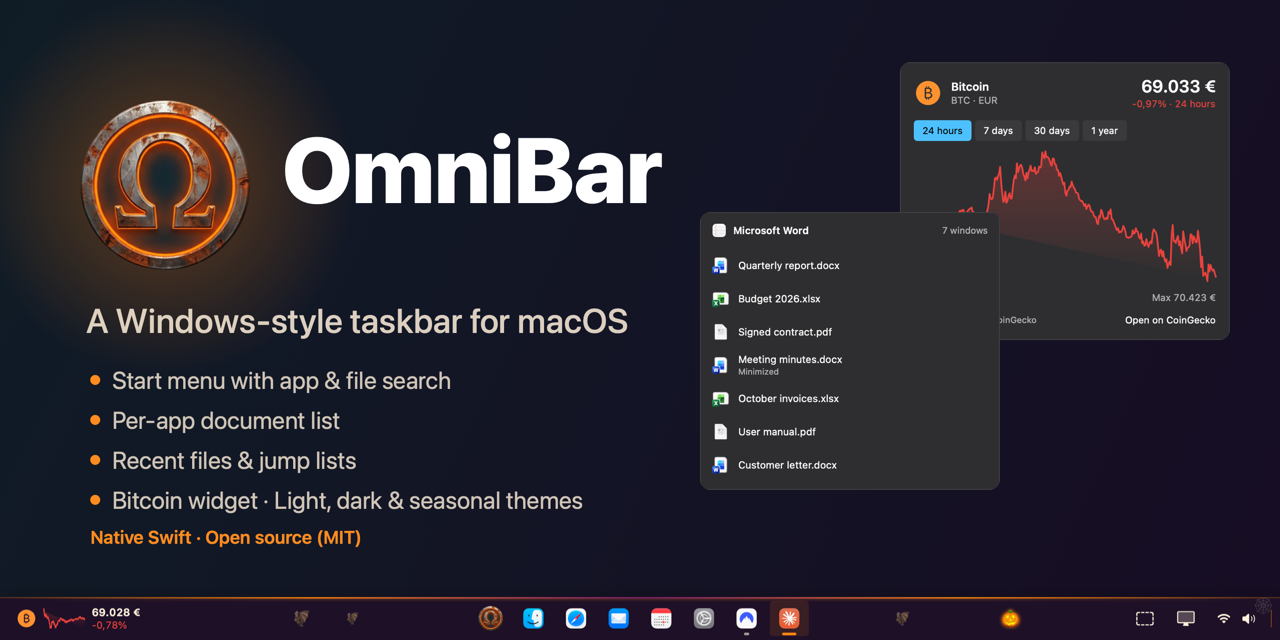
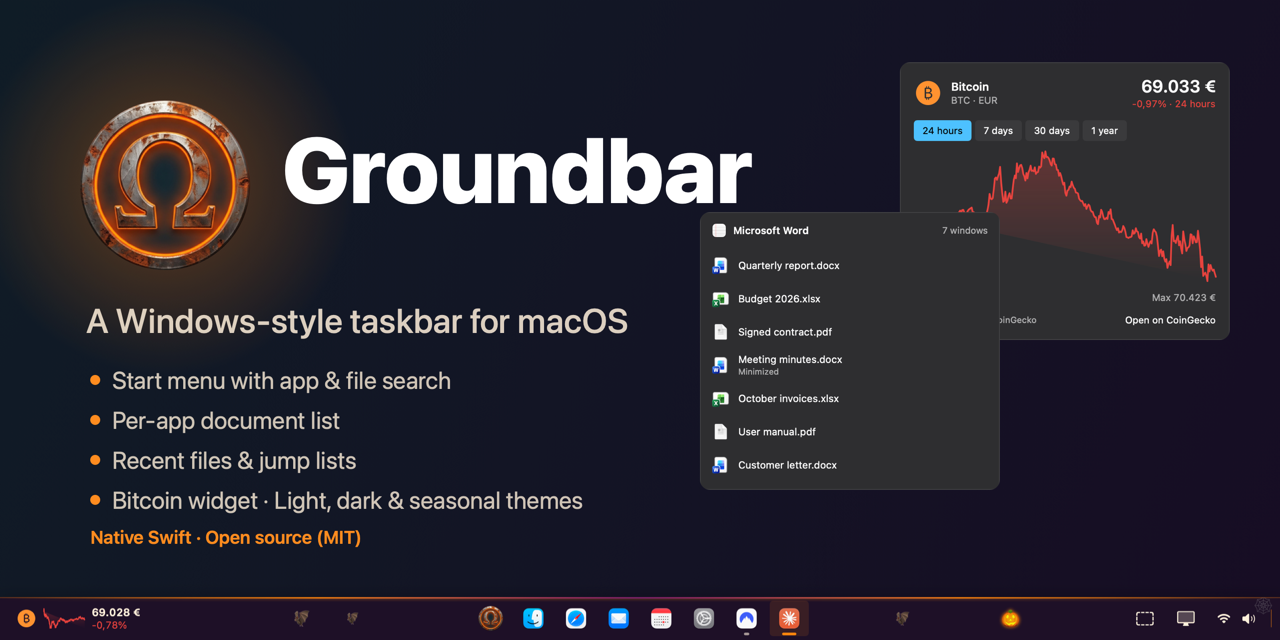
Rename OmniBar to Groundbar (version 0.3.0)
"OmniBar" is already used by other products (including a registered
trademark for lighting equipment), so the app is now called Groundbar.

- Sources/Groundbar, executable, bundle (app.groundbar.Groundbar), log
  file, environment variables (GROUNDBAR_*), UI strings in both
  languages, READMEs and scripts.
- The update check points to github.com/umb-maker/Groundbar.
- Regenerated demo GIF and social preview; READMEs note the former name.
- Version 0.3.0.

Changed region(s): [[0.25, 0.1875, 0.5938, 0.3438]]

diff --git a/Sources/Groundbar/Welcome.swift b/Sources/Groundbar/Welcome.swift
@@ -18,7 +18,7 @@ enum LoginItem {
     static var binding: Binding<Bool> { Binding(get: { isEnabled }, set: { set($0) }) }
 }
 
-/// Live state of the two privacy permissions OmniBar needs.
+/// Live state of the two privacy permissions Groundbar needs.
 @MainActor
 final class PermissionState: ObservableObject {
     @Published private(set) var accessibility = AXIsProcessTrusted()
@@ -39,14 +39,14 @@ final class PermissionState: ObservableObject {
         if screen != screenRecording { screenRecording = screen }
     }
 
-    /// Adds OmniBar to the Accessibility list (with the system prompt) and opens that pane.
+    /// Adds Groundbar to the Accessibility list (with the system prompt) and opens that pane.
     func requestAccessibility() {
         let opts = [kAXTrustedCheckOptionPrompt.takeUnretainedValue() as String: true] as CFDictionary
         _ = AXIsProcessTrustedWithOptions(opts)
         TaskbarController.openSettings("x-apple.systempreferences:com.apple.preference.security?Privacy_Accessibility")
     }
 
-    /// Adds OmniBar to the Screen Recording list (with the system prompt) and opens that pane.
+    /// Adds Groundbar to the Screen Recording list (with the system prompt) and opens that pane.
     func requestScreenRecording() {
         _ = CGRequestScreenCaptureAccess()
         TaskbarController.openSettings("x-apple.systempreferences:com.apple.preference.security?Privacy_ScreenCapture")
@@ -115,8 +115,8 @@ struct WelcomeView: View {
         VStack(spacing: 0) {
             VStack(spacing: 10) {
                 Image(nsImage: NSApp.applicationIconImage).resizable().frame(width: 84, height: 84)
-                Text("Welcome to OmniBar").font(.system(size: 24, weight: .bold))
-                Text("A Windows-style taskbar for your Mac. To list your windows and documents, OmniBar needs two macOS permissions.")
+                Text("Welcome to Groundbar").font(.system(size: 24, weight: .bold))
+                Text("A Windows-style taskbar for your Mac. To list your windows and documents, Groundbar needs two macOS permissions.")
                     .font(.system(size: 13)).foregroundStyle(f.secondary)
                     .multilineTextAlignment(.center).fixedSize(horizontal: false, vertical: true)
             }
@@ -130,7 +130,7 @@ struct WelcomeView: View {
                               detail: "Reads window titles and takes the screenshots you ask for.",
                               granted: permissions.screenRecording, action: permissions.requestScreenRecording)
                 if !permissions.screenRecording {
-                    Text("After allowing Screen Recording, macOS may ask you to quit and reopen OmniBar.")
+                    Text("After allowing Screen Recording, macOS may ask you to quit and reopen Groundbar.")
                         .font(.system(size: 11)).foregroundStyle(f.secondary)
                         .frame(maxWidth: .infinity, alignment: .leading).padding(.horizontal, 4)
                 }
@@ -152,7 +152,7 @@ struct WelcomeView: View {
 
             HStack(alignment: .center, spacing: 12) {
                 Image(systemName: "lock.shield").foregroundStyle(f.secondary)
-                Text("Nothing about you leaves your Mac: OmniBar only fetches the Bitcoin price from CoinGecko and checks GitHub for updates.")
+                Text("Nothing about you leaves your Mac: Groundbar only fetches the Bitcoin price from CoinGecko and checks GitHub for updates.")
                     .font(.system(size: 11)).foregroundStyle(f.secondary).fixedSize(horizontal: false, vertical: true)
                 Spacer()
                 Button(permissions.allGranted ? "Get Started" : "Later") { WelcomeWindow.close() }

diff --git a/Sources/Groundbar/Settings.swift b/Sources/Groundbar/Settings.swift
@@ -1,7 +1,7 @@
 import AppKit
 import SwiftUI
 
-/// OmniBar's settings window (bar menu › Settings…, or the gear in the Start menu).
+/// Groundbar's settings window (bar menu › Settings…, or the gear in the Start menu).
 @MainActor
 enum SettingsWindow {
     private(set) static var window: NSWindow?
@@ -16,7 +16,7 @@ enum SettingsWindow {
         let c = TaskbarController.shared
         let w = NSWindow(contentRect: NSRect(x: 0, y: 0, width: 500, height: 790),
                          styleMask: [.titled, .closable], backing: .buffered, defer: false)
-        w.title = L("OmniBar Settings")
+        w.title = L("Groundbar Settings")
         w.isReleasedWhenClosed = false
         w.appearance = c.model.theme.appearance
         let host = NSHostingView(rootView: SettingsView(model: c.model, ticker: c.crypto, updater: c.updater))
@@ -80,7 +80,7 @@ struct SettingsView: View {
 
             Section("About") {
                 LabeledContent("Source code") {
-                    Link("github.com/umb-maker/OmniBar", destination: URL(string: "https://github.com/umb-maker/OmniBar")!)
+                    Link("github.com/umb-maker/Groundbar", destination: URL(string: "https://github.com/umb-maker/Groundbar")!)
                 }
                 LabeledContent("License", value: "MIT")
                 LabeledContent("Permissions") {
@@ -107,12 +107,12 @@ struct SettingsView: View {
                 Text("Checking…").foregroundStyle(.secondary)
             }
         case .upToDate:
-            Label("OmniBar is up to date", systemImage: "checkmark.circle.fill").foregroundStyle(.green)
+            Label("Groundbar is up to date", systemImage: "checkmark.circle.fill").foregroundStyle(.green)
         case .available(let release):
             Button {
                 NSWorkspace.shared.open(release.url)
             } label: {
-                Label("Download OmniBar \(release.version)", systemImage: "arrow.down.circle.fill")
+                Label("Download Groundbar \(release.version)", systemImage: "arrow.down.circle.fill")
             }
             .buttonStyle(.link)
         case .failed:

diff --git a/Sources/Groundbar/Snapshot.swift b/Sources/Groundbar/Snapshot.swift
@@ -1,6 +1,6 @@
 import AppKit
 
-/// Debug aid: `OmniBar --snapshot <dir>` writes PNGs of the bar and flyouts, then quits.
+/// Debug aid: `Groundbar --snapshot <dir>` writes PNGs of the bar and flyouts, then quits.
 @MainActor
 enum Snapshot {
     static func run(to dir: String) {
@@ -15,8 +15,8 @@ enum Snapshot {
             ("settings", { WelcomeWindow.close(); c.updater.check(); SettingsWindow.show() }),
             ("preview", { c.closeFlyout(); c.showDemoPreview() }),
         ]
-        // OMNIBAR_SNAPSHOT_STEPS=bar,start limits the run to those steps.
-        let only = ProcessInfo.processInfo.environment["OMNIBAR_SNAPSHOT_STEPS"].map { Set($0.split(separator: ",").map(String.init)) }
+        // GROUNDBAR_SNAPSHOT_STEPS=bar,start limits the run to those steps.
+        let only = ProcessInfo.processInfo.environment["GROUNDBAR_SNAPSHOT_STEPS"].map { Set($0.split(separator: ",").map(String.init)) }
         let steps = only.map { o in allSteps.filter { o.contains($0.0) } } ?? allSteps
         func step(_ i: Int) {
             guard i < steps.count else { NSApp.terminate(nil); return }
@@ -65,9 +65,9 @@ extension TaskbarController {
     }
 }
 
-/// `OMNIBAR_DEMO=1`: sample apps and files instead of the user's own, for README screenshots and the demo GIF.
+/// `GROUNDBAR_DEMO=1`: sample apps and files instead of the user's own, for README screenshots and the demo GIF.
 enum Demo {
-    static let active = ProcessInfo.processInfo.environment["OMNIBAR_DEMO"] == "1"
+    static let active = ProcessInfo.processInfo.environment["GROUNDBAR_DEMO"] == "1"
     static let userName = "Alex Appleseed"
     static let pins = ["com.apple.finder", "com.apple.Safari", "com.apple.mail", "com.apple.iCal", "com.apple.Notes",
                        "com.apple.Music", "com.apple.Photos", "com.apple.systempreferences"]

diff --git a/scripts/demo-gif.swift b/scripts/demo-gif.swift
@@ -1,7 +1,7 @@
-// Builds the README demo GIF from OmniBar's own --snapshot renders (no screen recording involved).
+// Builds the README demo GIF from Groundbar's own --snapshot renders (no screen recording involved).
 // Usage: swift scripts/demo-gif.swift <input folder> <output.gif>
 //
-// The input folder holds @2x PNGs rendered with OMNIBAR_DEMO=1 (sample apps and files) in English:
+// The input folder holds @2x PNGs rendered with GROUNDBAR_DEMO=1 (sample apps and files) in English:
 //   bar-dark.png bar-halloween.png bar-christmas.png bar-santa.png (bar layer renders, sleigh-free for Santa)
 //   sleigh.png (the sleigh cropped from a Santa render), start.png preview.png btc.png quick.png
 import AppKit
@@ -105,7 +105,7 @@ func reveal(_ caption: String, _ image: NSImage, x: CGFloat, holdFor seconds: Do
     hold(frame(bar: "dark", caption: caption, panels: [Panel(image: image, x: x, progress: 1)]), seconds)
 }
 
-hold(frame(bar: "dark", caption: "OmniBar · a Windows-style taskbar for macOS"), 1.8)
+hold(frame(bar: "dark", caption: "Groundbar · a Windows-style taskbar for macOS"), 1.8)
 reveal("Start menu: recent apps, files, search", start, x: (W - size(start).width) / 2, holdFor: 2.6)
 reveal("Every open document, one click away", preview, x: W * 0.44, holdFor: 2.4)
 reveal("Bitcoin widget", btc, x: 6, holdFor: 2.0)

diff --git a/Sources/Groundbar/Updater.swift b/Sources/Groundbar/Updater.swift
@@ -22,8 +22,8 @@ final class Updater: ObservableObject {
         }
     }
 
-    static let releasesPage = URL(string: "https://github.com/umb-maker/OmniBar/releases")!
-    private static let latestAPI = URL(string: "https://api.github.com/repos/umb-maker/OmniBar/releases/latest")!
+    static let releasesPage = URL(string: "https://github.com/umb-maker/Groundbar/releases")!
+    private static let latestAPI = URL(string: "https://api.github.com/repos/umb-maker/Groundbar/releases/latest")!
     private static let automaticKey = "checkForUpdates"
     private static let lastCheckKey = "lastUpdateCheck"
     private static let notifiedKey = "notifiedVersion"
@@ -85,7 +85,7 @@ final class Updater: ObservableObject {
     }
 
     private func notify(_ release: Release) {
-        TaskbarController.shared.showToast(title: L("OmniBar \(release.version) is available"),
+        TaskbarController.shared.showToast(title: L("Groundbar \(release.version) is available"),
                                            detail: L("Click to open the download page"),
                                            symbol: "arrow.down.circle") {
             NSWorkspace.shared.open(release.url)

diff --git a/Sources/Groundbar/Log.swift b/Sources/Groundbar/Log.swift
@@ -1,12 +1,12 @@
 import Foundation
 
-/// Minimal diagnostics in ~/Library/Logs/OmniBar.log: start-up, permission state and errors only.
+/// Minimal diagnostics in ~/Library/Logs/Groundbar.log: start-up, permission state and errors only.
 /// Never log window titles, file names or other user content. The file is capped at 1 MB and rotated
-/// to OmniBar.old.log, so it never grows without limit.
+/// to Groundbar.old.log, so it never grows without limit.
 enum Log {
     private static let dir = FileManager.default.homeDirectoryForCurrentUser.appendingPathComponent("Library/Logs")
-    private static let url = dir.appendingPathComponent("OmniBar.log")
-    private static let old = dir.appendingPathComponent("OmniBar.old.log")
+    private static let url = dir.appendingPathComponent("Groundbar.log")
+    private static let old = dir.appendingPathComponent("Groundbar.old.log")
     private static let maxBytes = 1_000_000
 
     static func write(_ message: String) {

diff --git a/scripts/social-preview.swift b/scripts/social-preview.swift
@@ -1,4 +1,4 @@
-// Renders the GitHub social preview (1280x640) for OmniBar.
+// Renders the GitHub social preview (1280x640) for Groundbar.
 // Usage: swift scripts/social-preview.swift . social.png  (then resize to 1280x640: sips -z 640 1280 social.png)
 import AppKit
 
@@ -45,7 +45,7 @@ func text(_ s: String, _ font: NSFont, _ color: NSColor, at p: NSPoint) {
 }
 let ivory = NSColor(red: 1, green: 0.94, blue: 0.86, alpha: 1)
 let orange = NSColor(red: 1, green: 0.55, blue: 0.12, alpha: 1)
-text("OmniBar", .systemFont(ofSize: 92, weight: .heavy), .white, at: NSPoint(x: 282, y: 418))
+text("Groundbar", .systemFont(ofSize: 92, weight: .heavy), .white, at: NSPoint(x: 282, y: 418))
 text("A Windows-style taskbar for macOS", .systemFont(ofSize: 34, weight: .medium), ivory.withAlphaComponent(0.85), at: NSPoint(x: 86, y: 300))
 
 let features = ["Start menu with app & file search", "Per-app document list", "Recent files & jump lists",

diff --git a/Sources/Groundbar/Santa.swift b/Sources/Groundbar/Santa.swift
@@ -13,9 +13,9 @@ struct SantaDecor: NSViewRepresentable {
         /// One flight takes `flight` seconds and starts again every `cycle` seconds.
         private static let flight: Double = 12
         private static let cycle: Double = 26
-        /// `OMNIBAR_DEBUG_SLEIGH=<fraction of the bar width>` parks the sleigh there without animating
+        /// `GROUNDBAR_DEBUG_SLEIGH=<fraction of the bar width>` parks the sleigh there without animating
         /// (for `--snapshot` checks; `1` means the middle of the bar).
-        private static let debugParked: CGFloat? = ProcessInfo.processInfo.environment["OMNIBAR_DEBUG_SLEIGH"]
+        private static let debugParked: CGFloat? = ProcessInfo.processInfo.environment["GROUNDBAR_DEBUG_SLEIGH"]
             .flatMap(Double.init).map { $0 >= 1 ? 0.4 : CGFloat($0) }
 
         private var built: CGSize = .zero

diff --git a/Sources/Groundbar/AppCatalog.swift b/Sources/Groundbar/AppCatalog.swift
@@ -17,9 +17,9 @@ final class AppCatalog: ObservableObject {
     @Published private(set) var recentApps: [AppEntry] = []
     private var icons: [String: NSImage] = [:]
 
-    /// Bundle ids (or paths) of apps brought to the front in OmniBar, newest first.
+    /// Bundle ids (or paths) of apps brought to the front in Groundbar, newest first.
     private var used: [String]
-    /// Apps Spotlight saw launched in the last 30 days, to fill the list before OmniBar has its own history.
+    /// Apps Spotlight saw launched in the last 30 days, to fill the list before Groundbar has its own history.
     private var spotlight: [String] = []
     private var spotlightQuery: NSMetadataQuery?
     private var observer: NSObjectProtocol?

diff --git a/Sources/Groundbar/PreviewView.swift b/Sources/Groundbar/PreviewView.swift
@@ -118,7 +118,7 @@ struct PreviewView: View {
                         Image(nsImage: model.icon).resizable().frame(width: 16, height: 16)
                         Text(model.name).font(.system(size: 12, weight: .semibold))
                     }
-                    Text("OmniBar needs the Accessibility permission to list windows.")
+                    Text("Groundbar needs the Accessibility permission to list windows.")
                         .font(.system(size: 11)).foregroundStyle(f.secondary).fixedSize(horizontal: false, vertical: true)
                     Button("Open Accessibility Settings") {
                         TaskbarController.shared.hidePreview()

diff --git a/Package.swift b/Package.swift
@@ -2,12 +2,12 @@
 import PackageDescription
 
 let package = Package(
-    name: "OmniBar",
+    name: "Groundbar",
     platforms: [.macOS(.v14)],
     targets: [
         .executableTarget(
-            name: "OmniBar",
-            path: "Sources/OmniBar",
+            name: "Groundbar",
+            path: "Sources/Groundbar",
             linkerSettings: [
                 .linkedFramework("ScreenCaptureKit"),
                 .linkedFramework("Carbon"),

diff --git a/scripts/app-icon.swift b/scripts/app-icon.swift
@@ -1,4 +1,4 @@
-// Draws OmniBar's 1024x1024 app icon: the Omega coin on a night-blue rounded square (macOS icon grid).
+// Draws Groundbar's 1024x1024 app icon: the Omega coin on a night-blue rounded square (macOS icon grid).
 // Usage: swift scripts/app-icon.swift <coin image> <output.png> [x y size]
 //   x y size: square crop of the coin in the source image, in pixels from the top-left
 //   (defaults match the original artwork, a 2000x2000 image).
